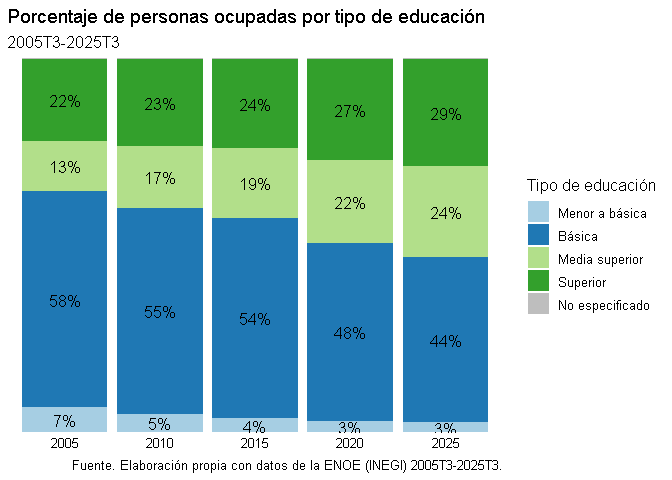
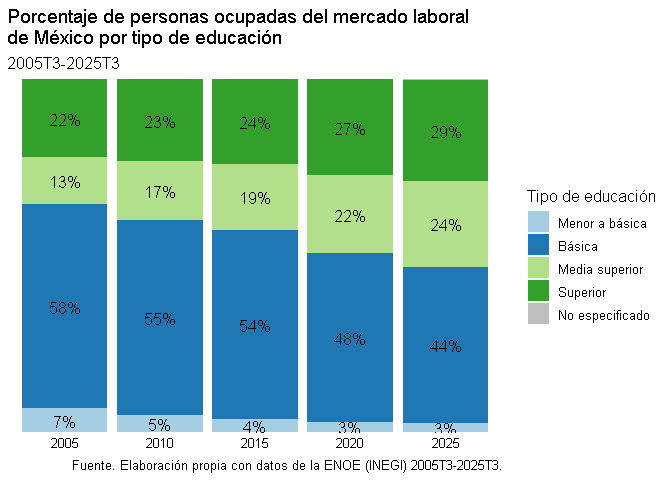
En el título de la gráfica, se añade "...del mercado laboral de México"

diff --git a/aplicacion.md b/aplicacion.md
@@ -194,8 +194,8 @@ datos |>
       file                        tot1      tot2
       <chr>                      <dbl>     <dbl>
     1 ENOEN_SDEMT320.parquet        NA 126554112
-    2 SDEMT305.parquet       105077468        NA
-    3 SDEMT310.parquet       112552063        NA
+    2 SDEMT310.parquet       112552063        NA
+    3 SDEMT305.parquet       105077468        NA
     4 ENOE_SDEMT325.parquet         NA 130760049
     5 SDEMT315.parquet       119219891        NA
 
@@ -221,8 +221,8 @@ datos |>
       file                         tot
       <chr>                      <dbl>
     1 ENOEN_SDEMT320.parquet 126554112
-    2 SDEMT305.parquet       105077468
-    3 SDEMT310.parquet       112552063
+    2 SDEMT310.parquet       112552063
+    3 SDEMT305.parquet       105077468
     4 ENOE_SDEMT325.parquet  130760049
     5 SDEMT315.parquet       119219891
 
@@ -415,7 +415,7 @@ fig_prop <- datos_proc |>
     axis.ticks = element_blank(),
   ) + 
   labs(
-    title = "Porcentaje de personas ocupadas por tipo de educación",
+    title = "Porcentaje de personas ocupadas del mercado laboral \nde México por tipo de educación",
     subtitle = "2005T3-2025T3",
     caption = "Fuente. Elaboración propia con datos de la ENOE (INEGI) 2005T3-2025T3."
   )
